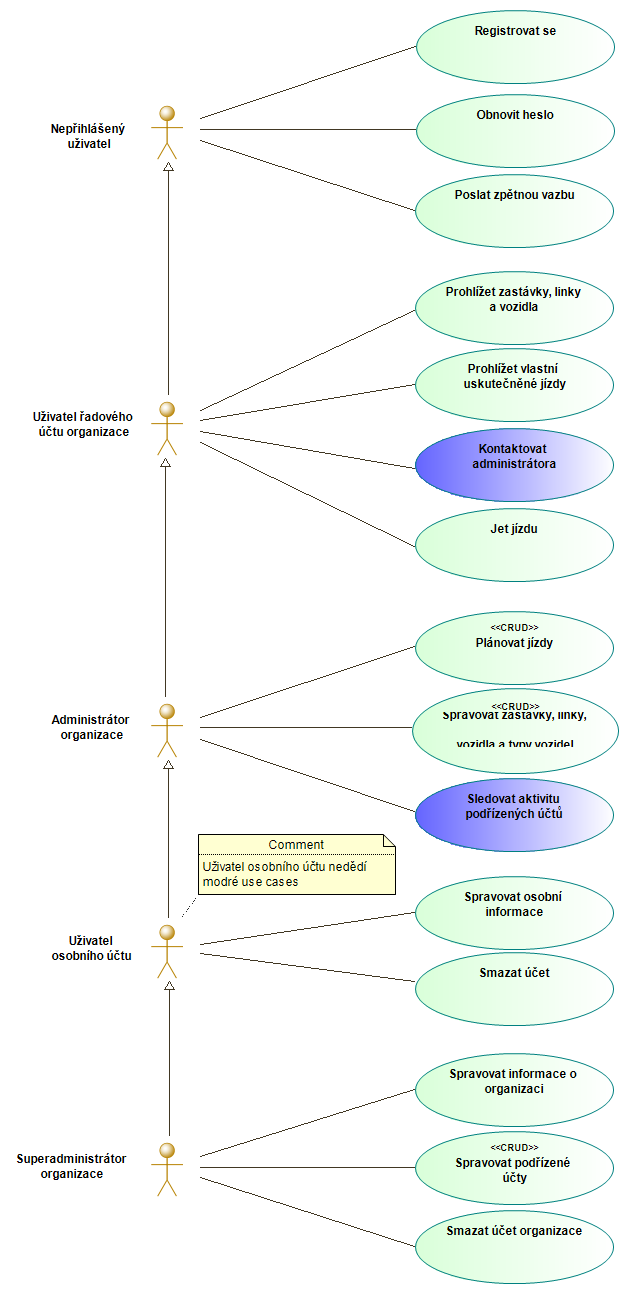
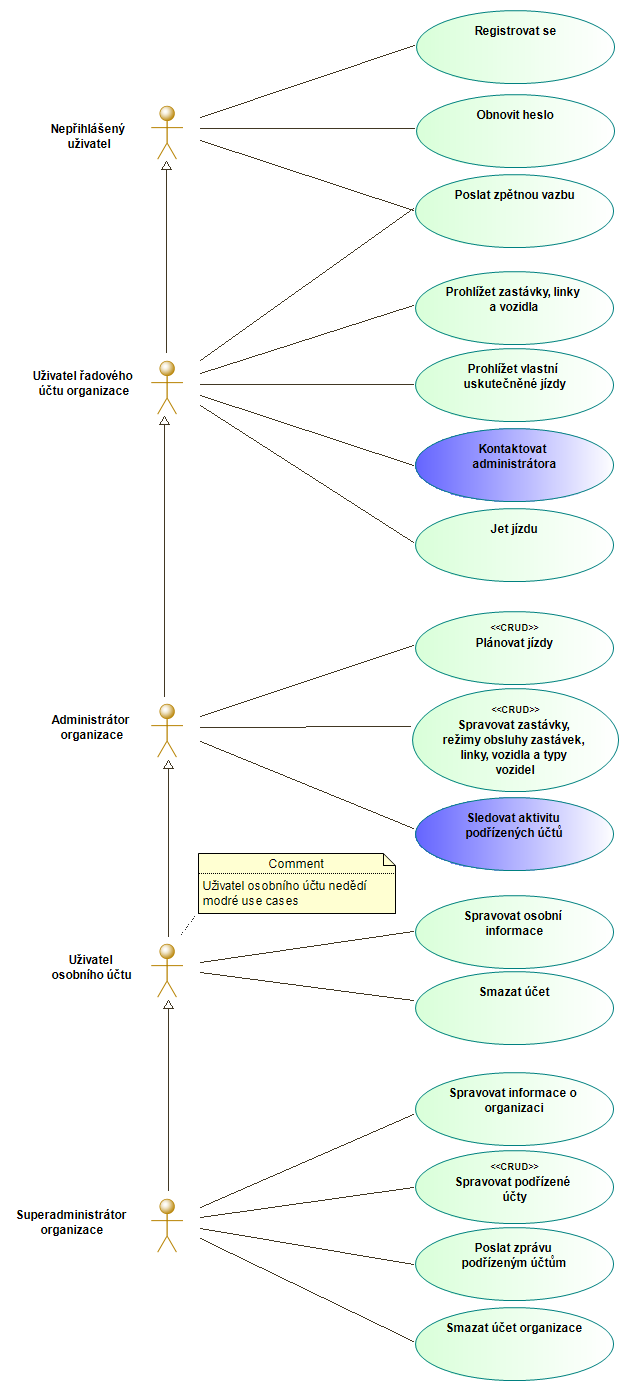
Rozpracování class diagramu a úprava use case
Přidávám rozpracovaný model tříd a upravuji stávající
use case návrh.

diff --git a/navrh/navrh.md b/navrh/navrh.md
@@ -208,7 +208,7 @@ jízdy řadovému uživateli (super)administrátor.
 #### Podmínky pro dokončení – vytvoření, upravení a odstranění
 * Všechny změny jsou úspěšně uložené.
 
-### Spravovat zastávky, linky, vozidla a typy vozidel
+### Spravovat zastávky, režimy obsluhy zastávek, linky, vozidla a typy vozidel
 
 #### Krátký popis
 Umožňuje uživateli prohlížet, vytvářet, upravovat a mazat zastávky, linky vozidla a typy vozidel (dále objekty).
@@ -402,6 +402,28 @@ Umožňuje superadministrátorovi zobrazit, vytvořit, upravit, odstranit a změ
 
 #### Podmínky pro dokončení – vytvoření, upravení, odstranění a změna oprávnění
 * Všechny změny jsou úspěšně uložené ve vzdálené databázi.
+
+### Poslat zprávu podřízeným účtům
+
+#### Krátký popis
+Umožní superadministrátorovi organizace posílat zprávy podřízeným účtům, které se pak zobrazí na domovské stránce všech
+účtů dané organizace.
+
+#### Podmínky pro spuštění
+* Je přihlášený superadministrátor organizace.
+
+#### Základní tok
+1. Systém uživateli zobrazí formulář.
+2. Uživatel vyplní formulář.
+3. Systém zvaliduje formulář.
+4. Zpráva je odeslána.
+
+#### Alternativná tok
+1. Pokud formulář v 3. bodě zakládního toku není validní, systém na to uživatele upozorní.
+2. Tok pokračuje 2. bodem základního toku.
+
+#### Podmínky pro dokončení
+* Zpráva je úspěšně uložena v databázi.
 
 ### Smazat účet organizace
 
